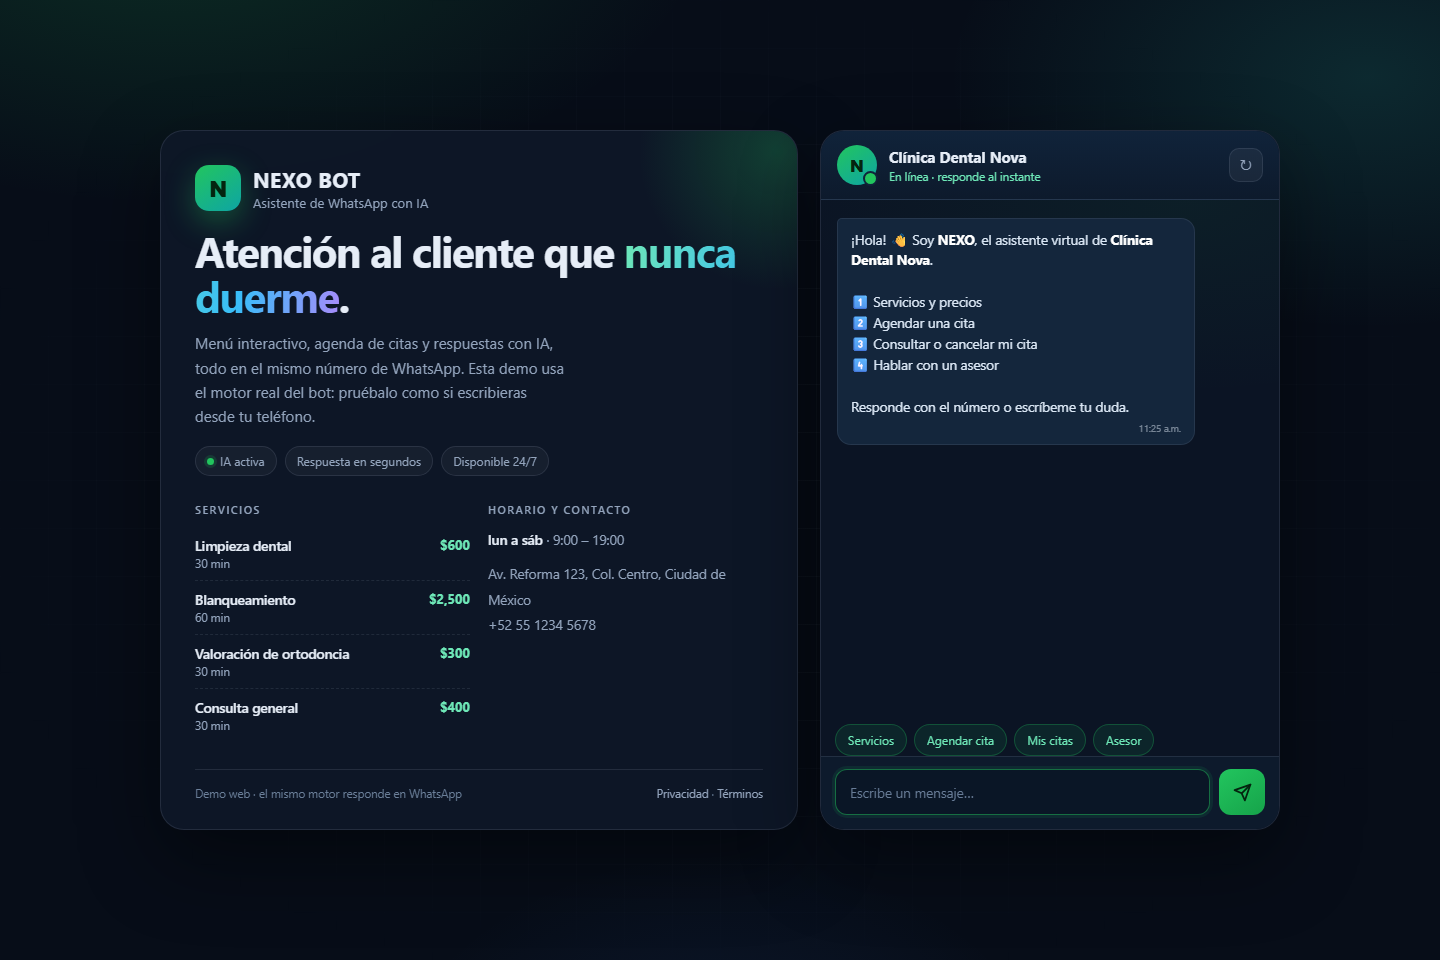
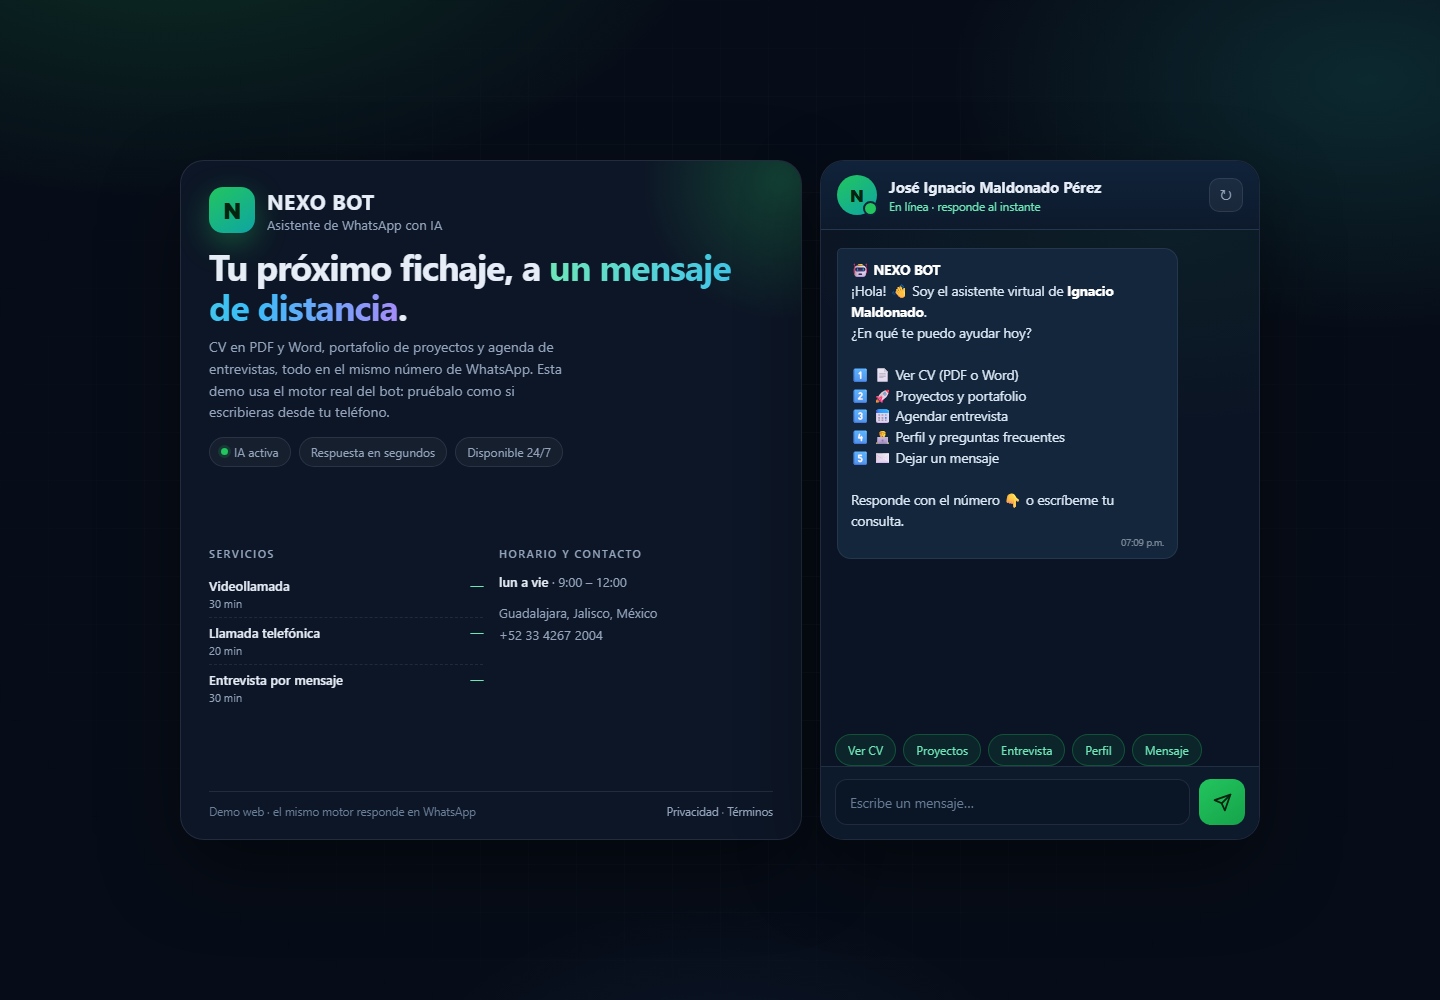
README con capturas del flujo, 16 pruebas y portada orientada a empleo

diff --git a/public/index.html b/public/index.html
@@ -4,11 +4,11 @@
   <meta charset="UTF-8" />
   <meta name="viewport" content="width=device-width, initial-scale=1.0" />
   <title>NEXO BOT · Asistente de WhatsApp con IA</title>
-  <meta name="description" content="Demo de un asistente de WhatsApp con IA: menú interactivo, agenda de citas y atención al cliente." />
+  <meta name="description" content="Demo de un asistente de WhatsApp con IA para búsqueda de empleo: CV en PDF y Word, portafolio y agenda de entrevistas." />
   <link rel="canonical" href="https://nexo-bot-7jjwi3rg7q-uc.a.run.app/demo" />
   <meta property="og:type" content="website" />
   <meta property="og:title" content="NEXO BOT · Asistente de WhatsApp con IA" />
-  <meta property="og:description" content="Menú interactivo, respuestas con Gemini y agenda de citas. Pruébalo en vivo." />
+  <meta property="og:description" content="CV en PDF y Word, portafolio de proyectos y agenda de entrevistas. Pruébalo en vivo." />
   <meta property="og:url" content="https://nexo-bot-7jjwi3rg7q-uc.a.run.app/demo" />
   <meta property="og:image" content="https://nexo-bot-7jjwi3rg7q-uc.a.run.app/captura.png" />
   <meta name="twitter:card" content="summary_large_image" />
@@ -464,10 +464,10 @@
           </div>
         </div>
 
-        <h2 class="titular">Atención al cliente que <span>nunca duerme</span>.</h2>
+        <h2 class="titular">Tu próximo fichaje, a <span>un mensaje de distancia</span>.</h2>
         <p class="bajada">
-          Menú interactivo, agenda de citas y respuestas con IA, todo en el mismo número de WhatsApp.
-          Esta demo usa el motor real del bot: pruébalo como si escribieras desde tu teléfono.
+          CV en PDF y Word, portafolio de proyectos y agenda de entrevistas, todo en el mismo número
+          de WhatsApp. Esta demo usa el motor real del bot: pruébalo como si escribieras desde tu teléfono.
         </p>
 
         <div class="pills">

diff --git a/README.md b/README.md
@@ -1,7 +1,8 @@
 # NEXO BOT
 
-Asistente de WhatsApp con IA para negocios: menú interactivo, preguntas frecuentes y agenda de
-citas, con el mismo motor en WhatsApp, web y consola.
+Asistente de WhatsApp con IA para búsqueda de empleo: los reclutadores descargan tu CV en PDF o
+Word (español/inglés), exploran tu portafolio y agendan una entrevista indicando empresa y vacante.
+El mismo motor responde en WhatsApp, en la web y en la consola.
 
 [![Node.js](https://img.shields.io/badge/Node.js-22-339933?logo=node.js&logoColor=white)](https://nodejs.org)
 [![Gemini](https://img.shields.io/badge/Google-Gemini-4285F4?logo=google&logoColor=white)](https://ai.google.dev)
@@ -10,22 +11,50 @@ citas, con el mismo motor en WhatsApp, web y consola.
 [![Firestore](https://img.shields.io/badge/Firestore-free%20tier-FFCA28?logo=firebase&logoColor=black)](https://cloud.google.com/firestore)
 [![License](https://img.shields.io/badge/license-MIT-blue)](LICENSE)
 
-**Demo en vivo:** https://nexo-bot-7jjwi3rg7q-uc.a.run.app/demo
+**Demo en vivo:** https://nexo-bot-271857970093.us-central1.run.app/demo<br>
+**Repositorio:** https://github.com/020388jimp-droid/NEXO-BOT
 
-> La demo pública usa un negocio ficticio y está limitada por IP para no gastar la cuota gratuita
-> de Gemini. No agendes citas reales.
+> La demo pública usa el mismo motor y el mismo perfil que el bot real. Está limitada por IP para
+> no gastar la cuota gratuita de Gemini y sus conversaciones están aisladas de WhatsApp.
+
+---
+
+## Capturas
+
+![Demo de NEXO BOT](docs/screenshots/demo.png)
+
+<table>
+  <tr>
+    <td><img src="docs/screenshots/flujo-cv.png" width="250" alt="Menú de CV en PDF y Word"></td>
+    <td><img src="docs/screenshots/flujo-proyectos.png" width="250" alt="Lista de proyectos"></td>
+  </tr>
+  <tr>
+    <td align="center"><sub>CV en PDF o Word (8 versiones)</sub></td>
+    <td align="center"><sub>Portafolio navegable</sub></td>
+  </tr>
+  <tr>
+    <td><img src="docs/screenshots/flujo-entrevista.png" width="250" alt="Flujo de entrevista: empresa"></td>
+    <td><img src="docs/screenshots/flujo-vacante.png" width="250" alt="Flujo de entrevista: vacante"></td>
+  </tr>
+  <tr>
+    <td align="center"><sub>Empresa</sub></td>
+    <td align="center"><sub>Vacante</sub></td>
+  </tr>
+</table>
 
 ---
 
 ## Qué hace
 
-- **Menú interactivo** con opciones numeradas: CV, proyectos, agendar entrevista, perfil y mensajes.
-- **Agenda citas reales**: interpreta «mañana», «el viernes» o «30/10», muestra horarios libres,
-  valida la zona horaria del negocio y evita dobles reservas.
-- **Responde preguntas con Gemini** usando el contexto del negocio, sin inventar precios ni horarios.
+- **Menú interactivo** con opciones numeradas y emojis: CV, proyectos, agendar entrevista, perfil y mensajes.
+- **CV en 8 versiones**: automatización y full-stack, español e inglés, en PDF y Word.
+- **Portafolio navegable**: lista de proyectos con descripción, stack y enlaces a demo y código.
+- **Agenda entrevistas reales**: modalidad (videollamada, llamada o mensaje), fecha, hora, nombre,
+  **empresa** y **vacante**; valida la zona horaria y evita dobles reservas.
+- **Responde preguntas con Gemini** usando el contexto del perfil, sin inventar experiencia ni datos.
 - **Respaldo sin IA**: si no hay clave, se agota la cuota o Gemini falla, contesta con preguntas
   frecuentes locales. El menú y las citas nunca dependen del modelo.
-- **Avisa al dueño** por WhatsApp cuando entra una cita o alguien pide un asesor.
+- **Avisa al dueño** por WhatsApp cuando entra una cita (con empresa y vacante) o alguien deja un mensaje.
 - **Mismo motor en tres canales**: webhook de WhatsApp, demo web y consola.
 
 ## Por qué esta arquitectura
@@ -37,7 +66,7 @@ citas, con el mismo motor en WhatsApp, web y consola.
 | **Menú determinista + IA** | La IA conversa; el flujo crítico (citas) es código comprobable. Menos alucinaciones y menos latencia. |
 | **Adaptador de almacenamiento** | Firestore en producción, memoria en local y pruebas. Cambiar a Postgres es implementar una interfaz. |
 | **Fechas como texto local** (`YYYY-MM-DD` / `HH:mm`) | El servidor corre en UTC; el negocio no. Se evitan bugs de zona horaria y de horario de verano. |
-| **Múltiples CVs**: El bot ofrece hasta 6 versiones (3 CVs × 2 idiomas × 2 formatos) | Permite al reclutador elegir el formato y idioma que necesita. |
+| **Múltiples CVs**: 8 versiones (2 perfiles × 2 idiomas × 2 formatos) | Permite al reclutador elegir el perfil, el idioma y el formato que necesita en un solo paso. |
 
 ## Stack
 
@@ -53,7 +82,7 @@ citas, con el mismo motor en WhatsApp, web y consola.
 ## Cómo funciona
 
 ```
-WhastApp ──webhook firmado──┐
+WhatsApp ──webhook firmado──┐
 Demo web ──/api/demo────────┼──► motor de conversación ──► menú
 Consola  ──CLI──────────────┘            │                  ├── agenda / cancela citas
                                           │                  └── FAQ
@@ -63,8 +92,8 @@ Consola  ──CLI──────────────┘            │  
 
 1. Meta envía el mensaje al webhook y NEXO BOT valida la firma HMAC-SHA256.
 2. El motor busca la conversación por número y decide: menú, cita o texto libre.
-3. Si es texto libre, Gemini responde con el contexto del negocio; si falla, entra el buscador de FAQ.
-4. Las citas se guardan en Firestore y el dueño recibe un aviso por WhatsApp.
+3. Si es texto libre, Gemini responde con el contexto del perfil; si falla, entra el buscador de FAQ.
+4. Las citas se guardan en Firestore y el dueño recibe un aviso por WhatsApp con empresa y vacante.
 
 ## Estructura
 
@@ -74,7 +103,7 @@ src/
   cli/                      Chat de terminal
   config/
     env.js                  Carga del .env desde cualquier directorio
-    negocio.js              Datos del negocio (servicios, horarios, FAQ)
+    negocio.js              Perfil, CVs, proyectos, modalidades y FAQ
   services/
     conversacion.js         Motor: estados, intenciones y flujo de citas
     mensajes.js             Textos que ve el cliente
@@ -83,12 +112,13 @@ src/
     ia.js                   Gemini con timeout, reintentos y fallback
     respuestas.js           Buscador de preguntas frecuentes
     whatsapp.js             Firma, envío, deduplicación y parseo del webhook
-public/                     Demo web, privacidad y términos
+public/                     Demo web, CVs en PDF/Word, privacidad y términos
 scripts/desplegar.js        Despliegue idempotente en Cloud Run
-test/bot.test.js            12 pruebas del motor
+test/bot.test.js            16 pruebas del motor
 docs/
   WHATSAPP-META.md          Guía para conectar un número real
   CV.md                     Texto listo para el currículum
+  screenshots/              Capturas usadas en este README
 ```
 
 ## Empezar en local
@@ -109,7 +139,7 @@ Otros comandos:
 
 ```bash
 npm run chat       # conversación en la terminal
-npm test           # 12 pruebas automatizadas
+npm test           # 16 pruebas automatizadas
 npm run deploy     # despliegue en Cloud Run
 ```
 
@@ -164,7 +194,7 @@ mueve `GEMINI_API_KEY` y `WHATSAPP_TOKEN` a **Secret Manager** y usa `--set-secr
 | `GET` | `/` y `/demo` | Demo web |
 | `POST` | `/api/demo` | Procesa un mensaje `{ sesion, mensaje }` |
 | `POST` | `/api/demo/reiniciar` | Reinicia la conversación de la demo |
-| `GET` | `/api/negocio` | Datos públicos del negocio |
+| `GET` | `/api/negocio` | Datos públicos del perfil |
 | `GET` | `/webhook` | Verificación de Meta (`hub.challenge`) |
 | `POST` | `/webhook` | Recepción de mensajes de WhatsApp |
 | `GET` | `/health` | Estado de IA, WhatsApp y almacenamiento |
@@ -182,12 +212,19 @@ Cubren:
 - Horas como las escribe la gente («4», «4pm», «a las 11», «4 de la tarde»).
 - Horarios ocupados que no se ofrecen.
 - Bloqueo transaccional para que un horario no se reserve dos veces.
-- Flujo completo: menú → CV → formato → descarga / servicio → fecha → hora → nombre → confirmación.
+- Flujo completo: modalidad → fecha → hora → nombre → empresa → vacante → confirmación.
+- Descarga del CV correcto en un solo paso (perfil, idioma y formato).
+- Lista de proyectos y detalle al elegir un número.
+- «cita» inicia el agendamiento directamente.
+- Preguntas del perfil respondidas sin repetir la ficha.
+- «dejar un mensaje» abre el buzón.
 - Cancelación con código, aunque el cliente envíe solo el código.
 - Reinicio con «menú».
 - Respaldo de preguntas frecuentes sin IA.
 - Aislamiento entre la demo y WhatsApp.
-- 12 pruebas automatizadas.
+- Normalización de destinos para México, Argentina y Brasil.
+- Formato de fecha y hora en español.
+- 16 pruebas automatizadas.
 
 ## Costes
 
@@ -201,9 +238,16 @@ Cubren:
 
 ## Para el CV
 
-En el menú del bot, los reclutadores pueden elegir:
+En el menú del bot (opción **1⃣ 📄 Ver CV**) los reclutadores eligen una de 8 versiones en un solo paso:
 
-1. **Qué CV deseas descargar?** (1. Automation EN, 2. Automation ES, 3. Automation EN Word, 4. Automation ES Word, 5. Full-Stack EN PDF, 6. Full-Stack ES PDF, 7. Full-Stack EN Word, 8. Full-Stack ES Word)
+1. CV Automatización · Español PDF
+2. CV Automatización · Español Word (`.docx`)
+3. CV Automation · Inglés (EN) PDF
+4. CV Automation · Inglés (EN) Word (`.docx`)
+5. CV Full-Stack · Español PDF
+6. CV Full-Stack · Español Word (`.docx`)
+7. CV Full-Stack · Inglés (EN) PDF
+8. CV Full-Stack · Inglés (EN) Word (`.docx`)
 
 Cada uno tiene su URL en `public/cv/`. Los archivos son:
 
@@ -220,15 +264,16 @@ Cada uno tiene su URL en `public/cv/`. Los archivos son:
 
 ## English summary
 
-NEXO BOT is an AI-powered WhatsApp assistant for job seekers. It combines a deterministic
-menu with Gemini for open questions, offers 6 CV download options (3 CVs × 2 languages × 2 formats),
-books and cancels appointments with timezone-safe availability checks, and stores conversations in
-Firestore. The same engine powers the WhatsApp webhook, a web demo and a CLI. It runs on Google
-Cloud Run at zero cost within free tiers.
+NEXO BOT is an AI-powered WhatsApp assistant for job seekers. Recruiters can download the CV in
+8 versions (automation or full-stack, Spanish or English, PDF or Word), browse the project
+portfolio, and book an interview with modality, company and vacancy. It combines a deterministic
+menu with Gemini for open questions, books and cancels appointments with timezone-safe
+availability checks, and stores conversations in Firestore. The same engine powers the WhatsApp
+webhook, a web demo and a CLI. It runs on Google Cloud Run at zero cost within free tiers.
 
 ```bash
 npm install && npm run dev     # http://localhost:8080/demo
-npm test                        # 12 tests
+npm test                        # 16 tests
 npm run deploy                  # Cloud Run
 ```
 
